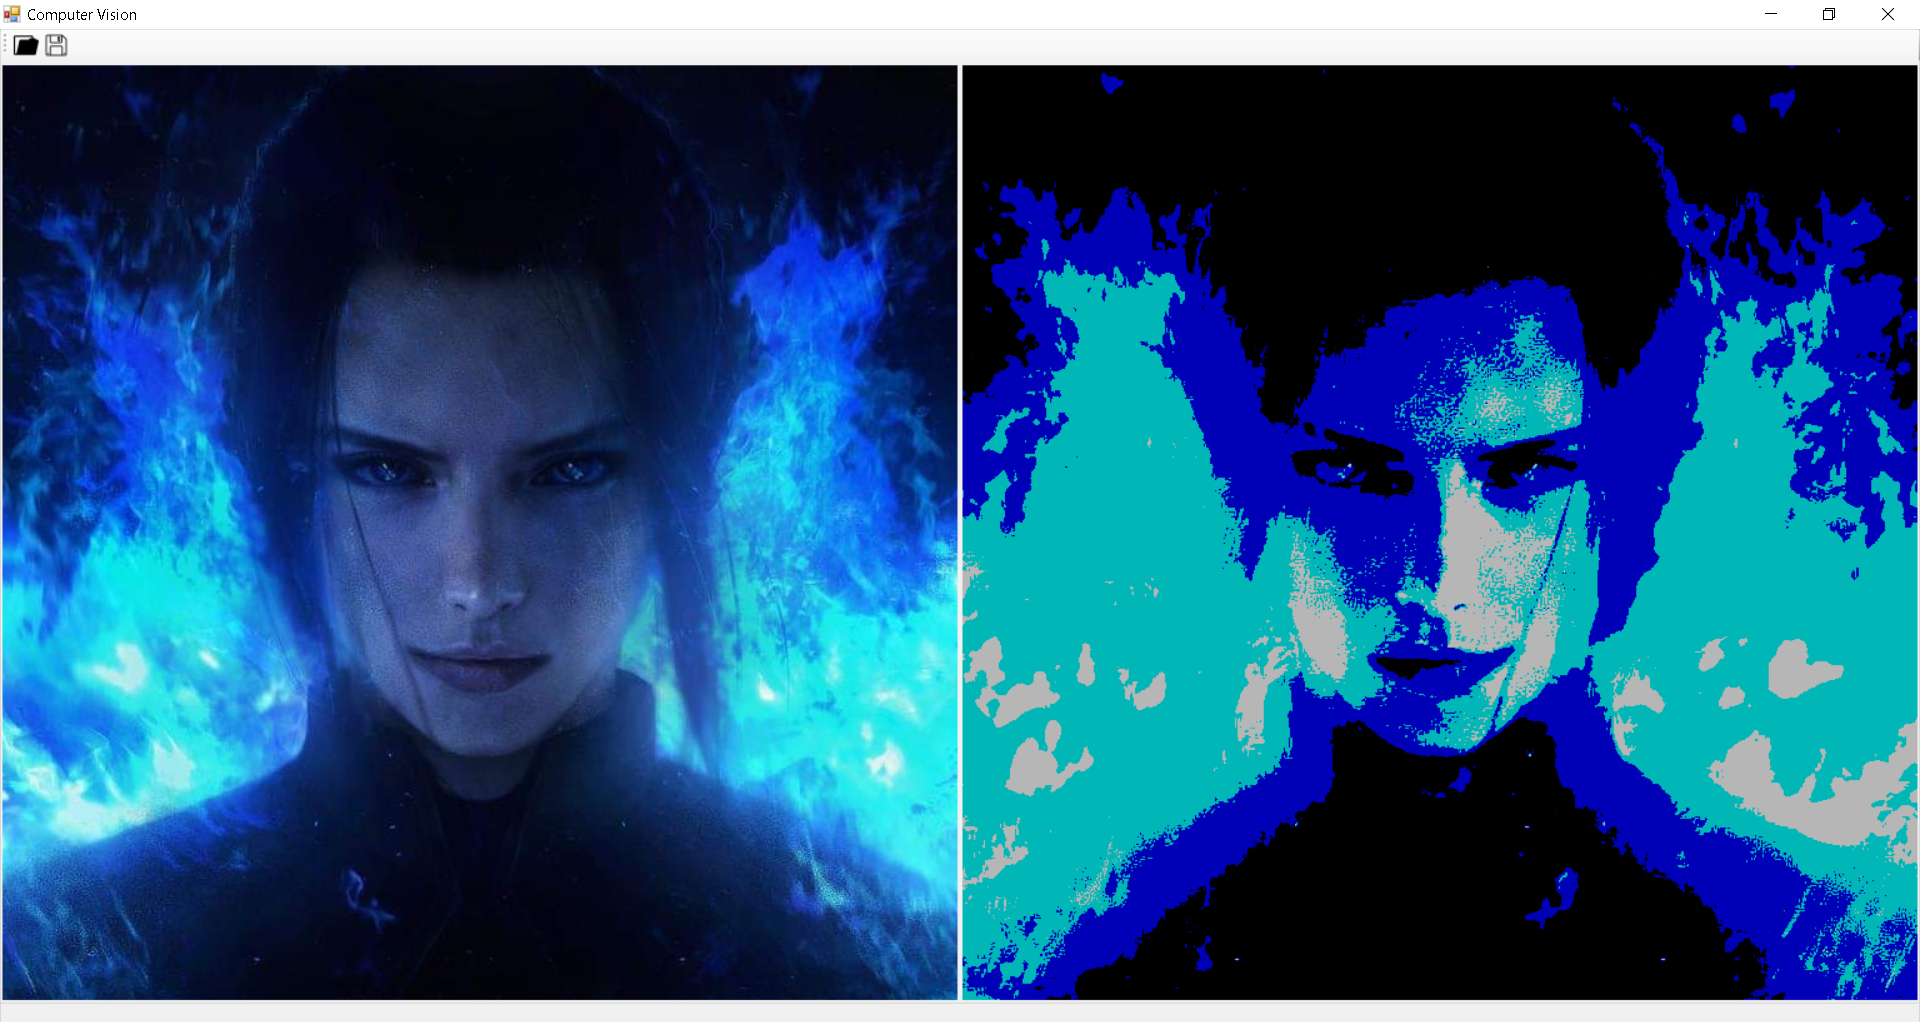
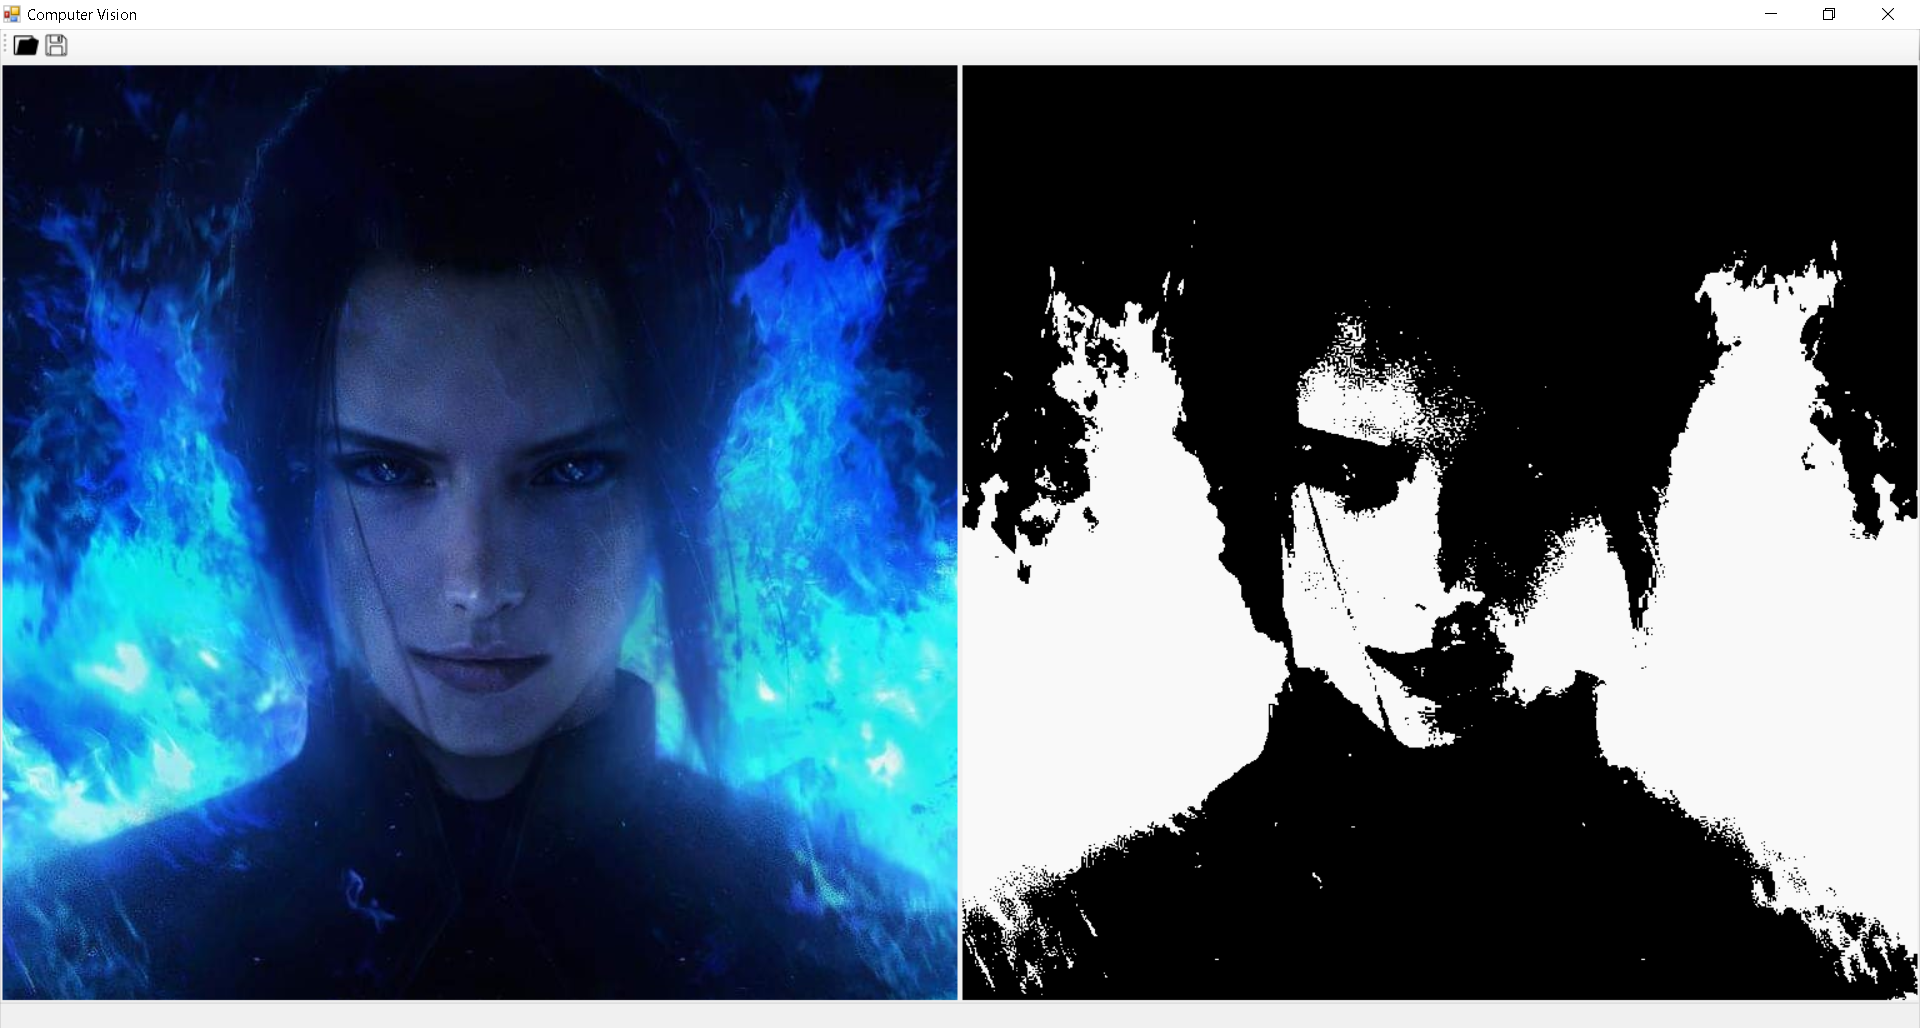
fixed binarize, sobel and laplasian methods

diff --git a/MainForm.cs b/MainForm.cs
@@ -83,6 +83,13 @@ namespace ComputerVision
             Main_ResultPicture.Image = Res;
         }
 
+        public void ApplyResult(Image<Gray, byte> res)
+        {
+            IsGray = true;
+            Res = res.AsBitmap();
+            Main_ResultPicture.Image = Res;
+        }
+
         private void grayscaleToolStripMenuItem_Click(object sender, EventArgs e)
         {
             IsGray = !IsGray;
@@ -118,7 +125,7 @@ namespace ComputerVision
         {
             if (Main_ResultPicture.Image != null)
             {
-                BinarizeForm bf = new BinarizeForm(this, _rslImage);
+                BinarizeForm bf = new BinarizeForm(this, _rslGrayImage);
 
                 bf.ShowDialog();
             }
@@ -166,7 +173,7 @@ namespace ComputerVision
 
         private void sobelToolStripMenuItem_Click(object sender, EventArgs e)
         {
-            var imgSobel = _rslGrayImage.Sobel(1, 0, 3);
+            var imgSobel = _rslGrayImage.Sobel(0, 1, 3).Add(_rslGrayImage.Sobel(1, 0, 3)).AbsDiff(new Gray(0.0));
             IsGray = true;
 
             Res = imgSobel.AsBitmap();
@@ -175,7 +182,7 @@ namespace ComputerVision
 
         private void laplasianToolStripMenuItem_Click(object sender, EventArgs e)
         {
-            var imgLaplasian = _rslGrayImage.Laplace(7);
+            var imgLaplasian = _rslGrayImage.Laplace(7).Add(_rslGrayImage.Laplace(7)).AbsDiff(new Gray(0.0));
             IsGray = true;
 
             Res = imgLaplasian.AsBitmap();

diff --git a/BinarizeForm.cs b/BinarizeForm.cs
@@ -16,10 +16,10 @@ namespace ComputerVision
     public partial class BinarizeForm : Form
     {
         private MainForm _parent;
-        public Image<Bgr, byte> inputImage { get; set; }
-        public Image<Bgr, byte> outputImage { get; set; }
+        public Image<Gray, byte> inputImage { get; set; }
+        public Image<Gray, byte> outputImage { get; set; }
 
-        public BinarizeForm(MainForm mForm, Image<Bgr, byte> pic)
+        public BinarizeForm(MainForm mForm, Image<Gray, byte> pic)
         {
             InitializeComponent();
 
@@ -36,7 +36,7 @@ namespace ComputerVision
                 var thr = double.Parse(CurrentThresholdLabel.Text);
                 var max = double.Parse(CurrentColorLabel.Text);
 
-                outputImage = inputImage.ThresholdBinary(new Bgr(thr, thr, thr), new Bgr(max, max, max));
+                outputImage = inputImage.ThresholdBinary(new Gray(thr), new Gray(max));
                 PictureBox.Image = outputImage.AsBitmap();
             }
             catch (Exception e)
